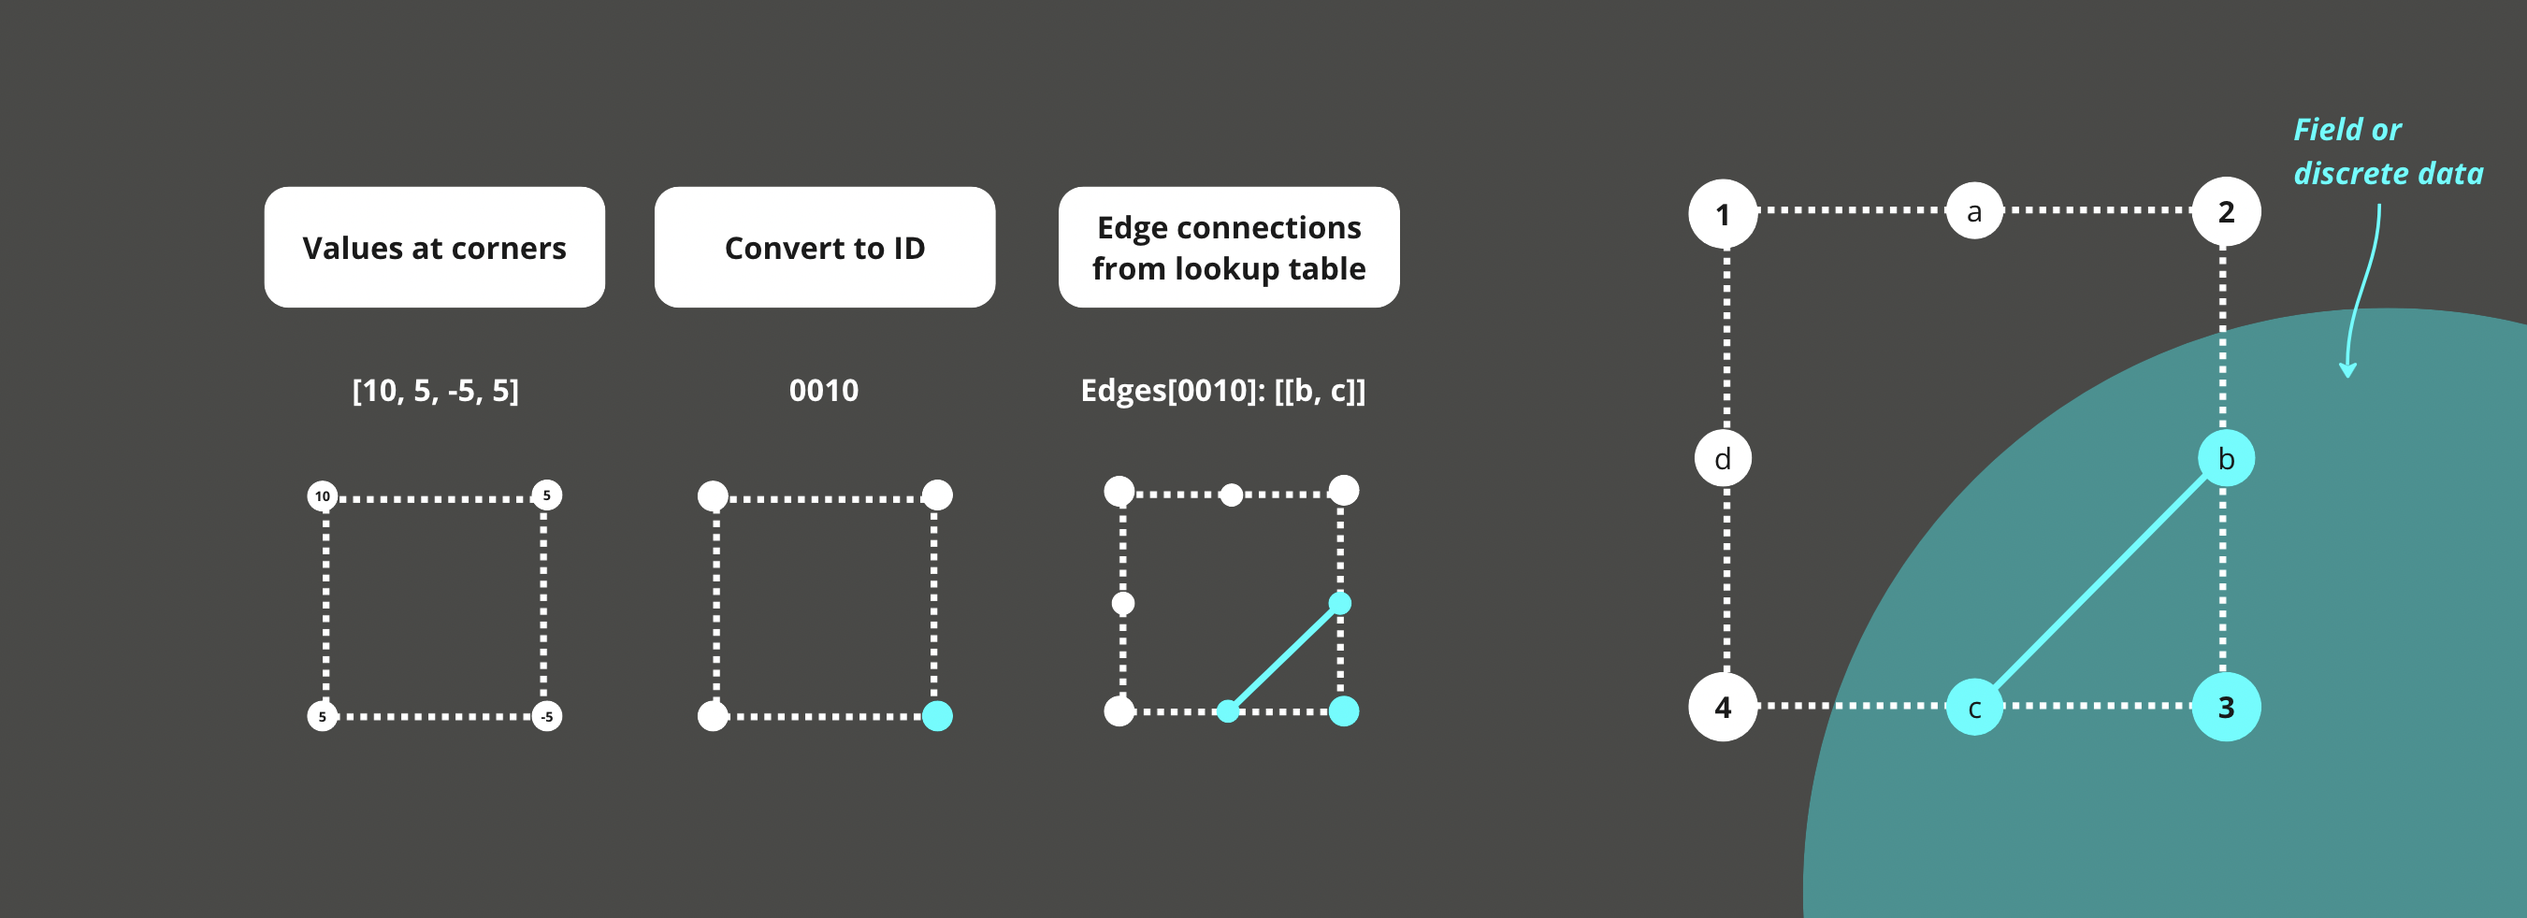
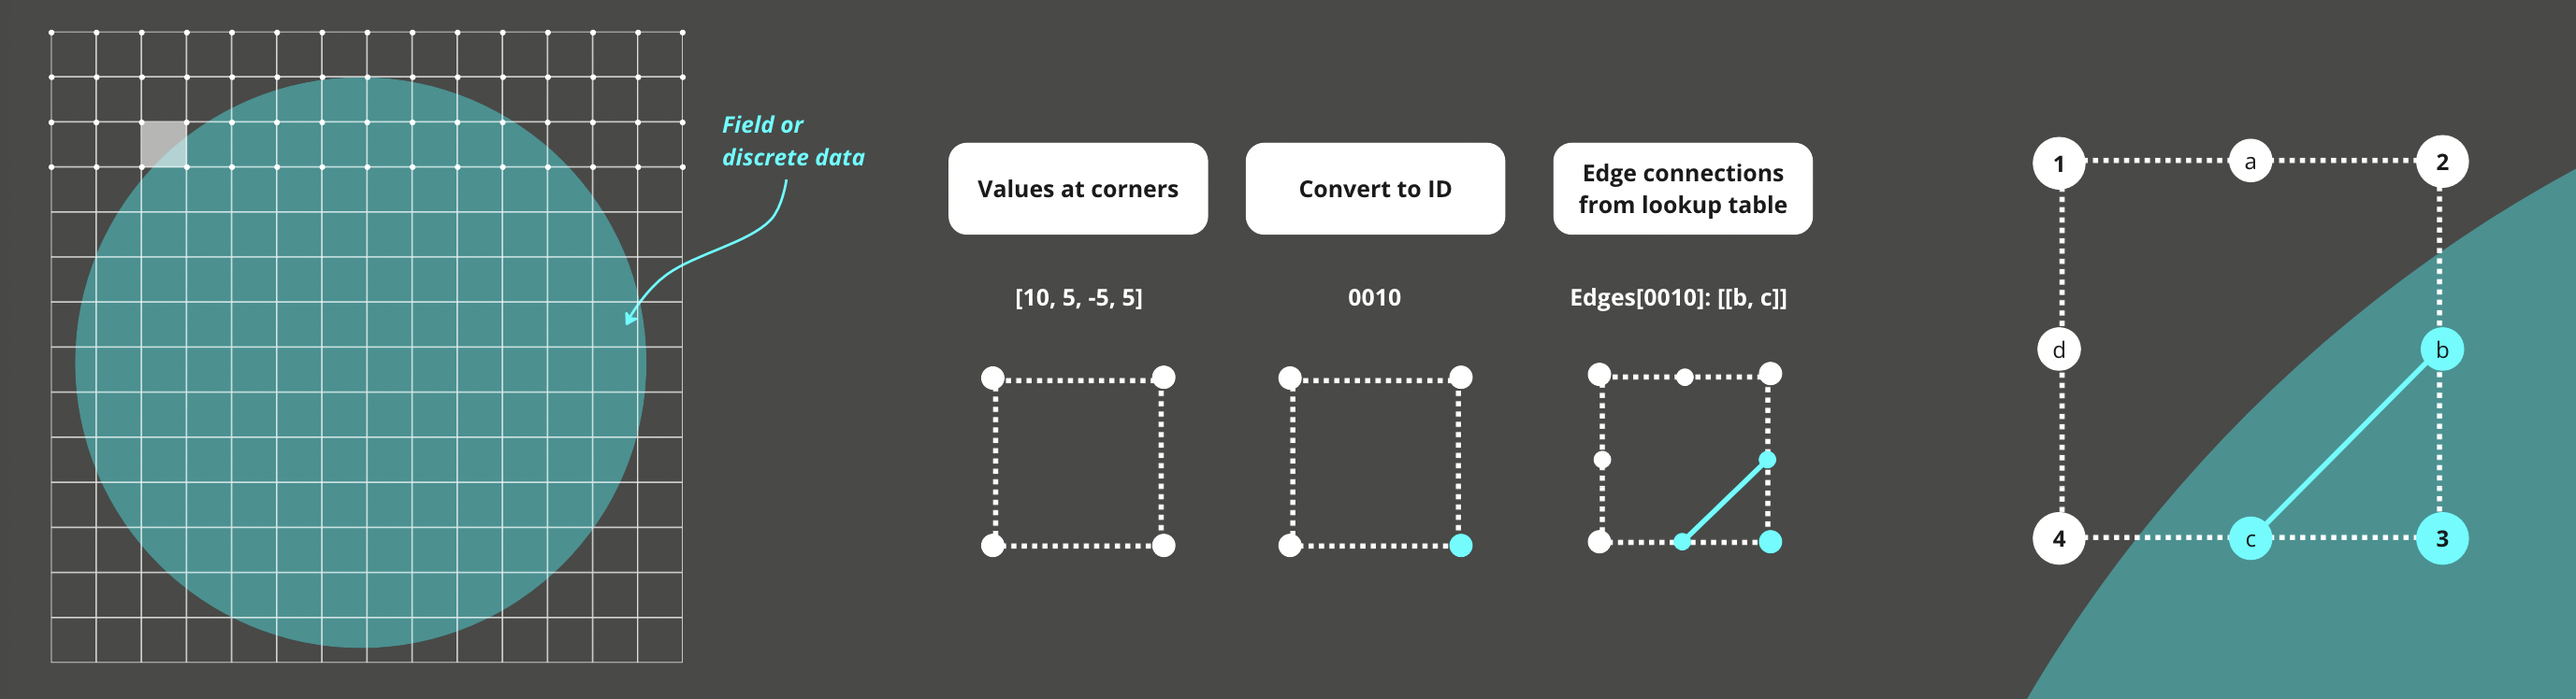
updated readme

diff --git a/README.md b/README.md
@@ -2,13 +2,19 @@
 
 An implementation of Marching Squares. Marching Squares is an algorithm that extracts edges from a function/field or 2D grid of values. This algorithm is useful whenever edge or boundary data is needed (toolpaths, for example).
 
-<img src="sample-images/banner.png">
+The basic steps are as follows.
 
+For each square in a 2D grid:
+1. Sample the data/field at each corner point
+2. Construct a lookup ID/state from these four values and a threshold (typically 0)
+3. Use this ID to look up the connections between edge midpoints to make based on a static edge table
+4. Insert the edges from the table into a list and move to the next square
+    
+<img src="sample-images/banner.png">
 
 The size of the sampling grid determines the "resolution" and thus the maximum deviation from the "actual" boundary the resulting edges will have.
 
 Marching Squares is a 2D version of "Marching Cubes", which is common in extracting surfaces as triangle meshes from 3D functions and discrete 3D data such as MRI and CT scans.
-
 
 ---
 
